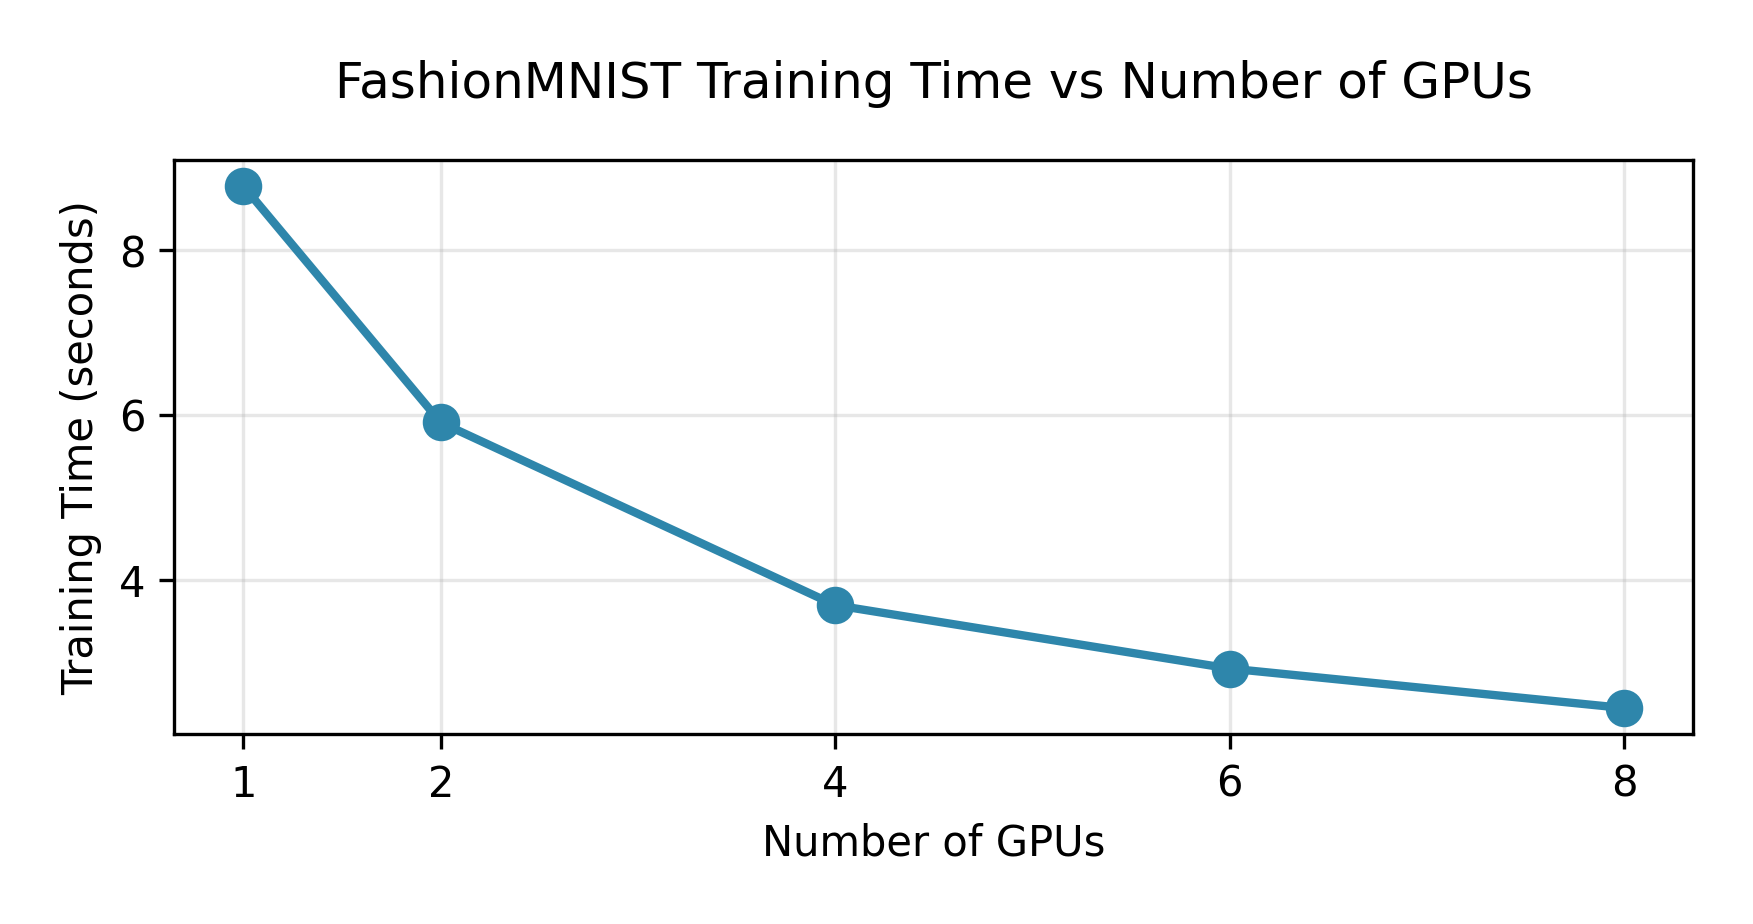
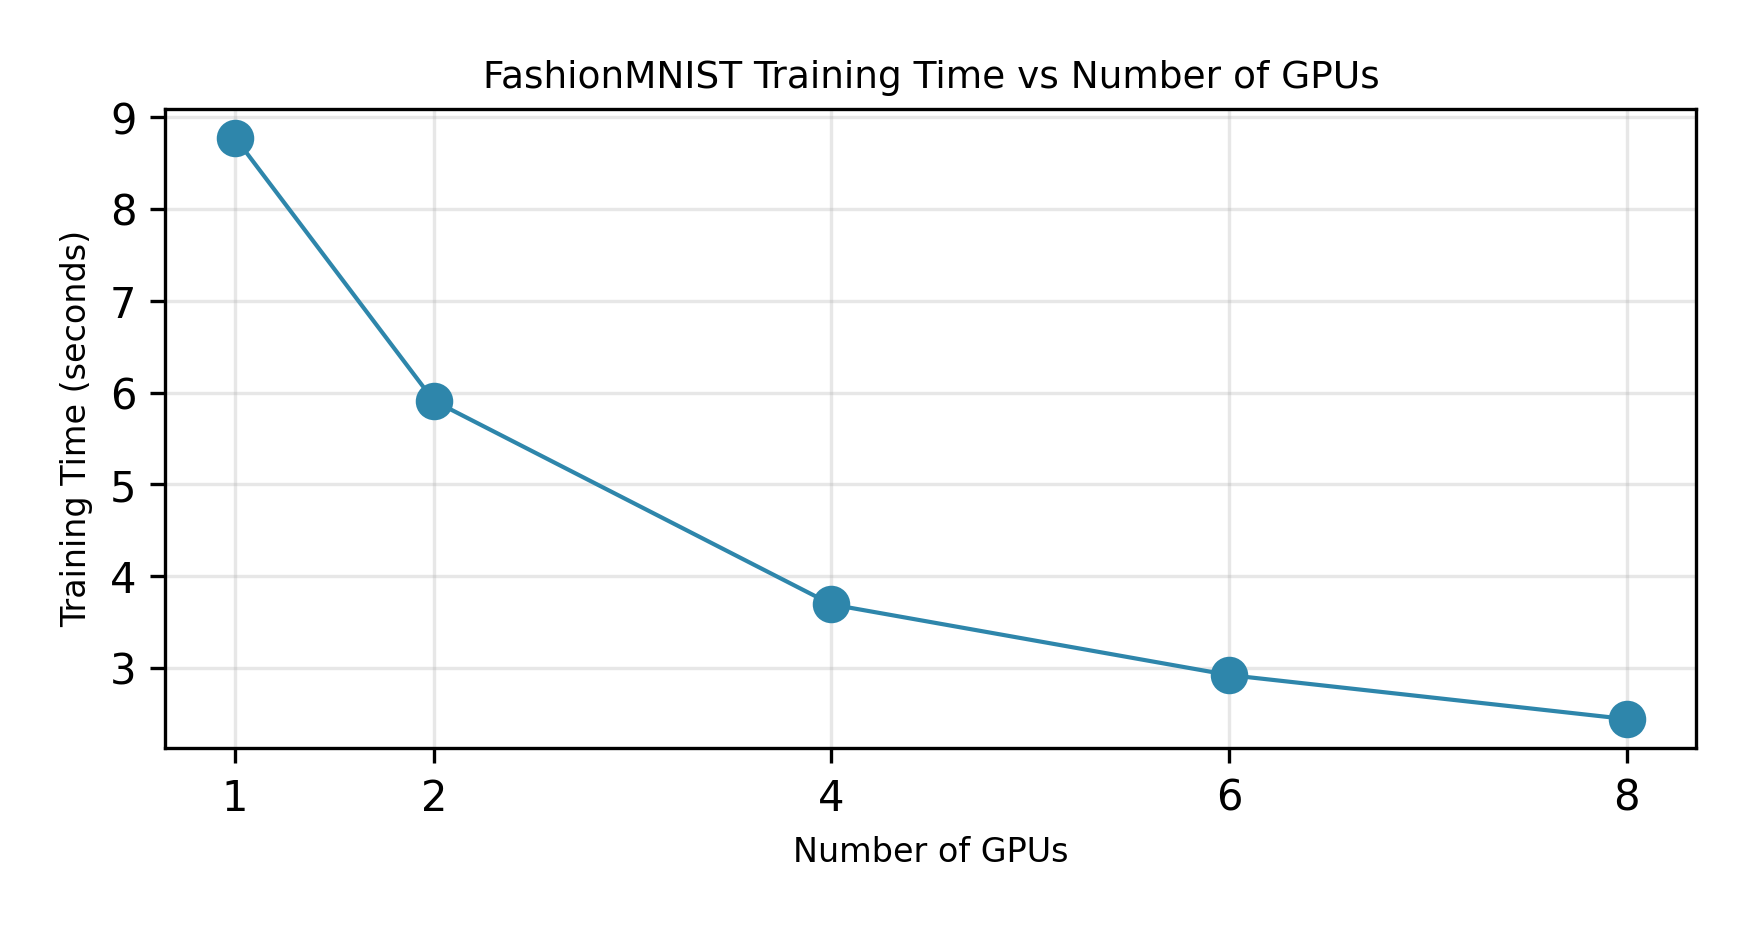
single gpu baseline

diff --git a/shared/mdaisy/utils.py b/shared/mdaisy/utils.py
@@ -248,3 +248,29 @@ def get_resnet18_fashionmnist(num_classes=10):
     model.fc = nn.Linear(model.fc.in_features, num_classes)
     return model
 
+
+def get_resnet18_cifar10(num_classes=10):
+    """
+    Get ResNet18 model adapted for 3-channel CIFAR-10 input.
+    
+    This function creates a ResNet18 model from torchvision and modifies it
+    to work with CIFAR-10's 32×32 RGB images. Unlike FashionMNIST, CIFAR-10
+    already has 3 channels, but the images are smaller (32×32 vs 224×224),
+    so we adjust the first convolutional layer and remove the maxpool layer.
+    
+    Args:
+        num_classes: Number of output classes (default: 10 for CIFAR-10)
+    
+    Returns:
+        torch.nn.Module: ResNet18 model adapted for CIFAR-10
+    """
+    model = models.resnet18(weights=None)  # Use pretrained=False for random init
+    # CIFAR-10 has 3 channels, but images are 32×32, so we adjust the first conv layer
+    # Use smaller kernel and stride to preserve spatial dimensions
+    model.conv1 = nn.Conv2d(3, 64, kernel_size=3, stride=1, padding=1, bias=False)
+    # Remove the first maxpool since CIFAR-10 images are already small (32×32)
+    model.maxpool = nn.Identity()
+    # Modify last fully connected layer for specified number of classes
+    model.fc = nn.Linear(model.fc.in_features, num_classes)
+    return model
+

diff --git a/01/code/multi_gpu_ddp_extended.py b/01/code/multi_gpu_ddp_extended.py
@@ -17,21 +17,9 @@ import torch.optim as optim
 from torch.nn.parallel import DistributedDataParallel as DDP
 from torch.utils.data import DataLoader, DistributedSampler
 from torchvision import datasets, transforms
+from mdaisy import get_resnet18_cifar10
 import os
 import time
-
-def get_resnet18_cifar10(num_classes=10):
-    """Get ResNet18 model adapted for 3-channel CIFAR-10 input"""
-    from torchvision import models
-    model = models.resnet18(weights=None)
-    # CIFAR-10 has 3 channels, so we don't need to modify conv1
-    # But CIFAR-10 images are 32x32, so we adjust the first conv layer
-    model.conv1 = nn.Conv2d(3, 64, kernel_size=3, stride=1, padding=1, bias=False)
-    # Remove the first maxpool since CIFAR-10 images are already small
-    model.maxpool = nn.Identity()
-    # Modify last fully connected layer for 10 classes
-    model.fc = nn.Linear(model.fc.in_features, num_classes)
-    return model
 
 def setup():
     """Initialize the process group using torchrun environment variables"""

diff --git a/01/code/single_gpu_extended.py b/01/code/single_gpu_extended.py
@@ -10,20 +10,7 @@ import torch.optim as optim
 import time
 from torch.utils.data import DataLoader
 from torchvision import datasets, transforms
-from mdaisy import get_resnet18_fashionmnist
-
-def get_resnet18_cifar10(num_classes=10):
-    """Get ResNet18 model adapted for 3-channel CIFAR-10 input"""
-    from torchvision import models
-    model = models.resnet18(weights=None)
-    # CIFAR-10 has 3 channels, so we don't need to modify conv1
-    # But CIFAR-10 images are 32x32, so we adjust the first conv layer
-    model.conv1 = nn.Conv2d(3, 64, kernel_size=3, stride=1, padding=1, bias=False)
-    # Remove the first maxpool since CIFAR-10 images are already small
-    model.maxpool = nn.Identity()
-    # Modify last fully connected layer for 10 classes
-    model.fc = nn.Linear(model.fc.in_features, num_classes)
-    return model
+from mdaisy import get_resnet18_cifar10
 
 def train_single_gpu(num_epochs=20):
     device = torch.device("cuda:0" if torch.cuda.is_available() else "cpu")

diff --git a/01/code/plot_scaling.py b/01/code/plot_scaling.py
@@ -15,10 +15,10 @@ speedup = times[0] / times
 fig, ax1 = plt.subplots(1, 1, figsize=(6, 3.25))
 
 # Plot: Training time vs number of GPUs
-ax1.plot(gpus, times, 'o-', linewidth=2, markersize=8, color='#2E86AB')
-ax1.set_xlabel('Number of GPUs', fontsize=10)
-ax1.set_ylabel('Training Time (seconds)', fontsize=10)
-ax1.set_title('FashionMNIST Training Time vs Number of GPUs', fontsize=12, pad=15)
+ax1.plot(gpus, times, 'o-', linewidth=1, markersize=8, color='#2E86AB')
+ax1.set_xlabel('Number of GPUs', fontsize=8)
+ax1.set_ylabel('Training Time (seconds)', fontsize=8)
+ax1.set_title('FashionMNIST Training Time vs Number of GPUs', fontsize=9, pad=5)
 ax1.grid(True, alpha=0.3)
 ax1.set_xticks(gpus)
 

diff --git a/01/code/growth_mismatch.py b/01/code/growth_mismatch.py
@@ -34,7 +34,7 @@ gpu_data = [
 
 def create_growth_mismatch_plot():
     """Create a two-subplot figure showing exponential vs linear growth."""
-    fig, (ax1, ax2) = plt.subplots(1, 2, figsize=(14, 6))
+    fig, (ax1, ax2) = plt.subplots(1, 2, figsize=(10, 6))
     
     # Subplot 1: Model Parameters (Exponential Growth)
     years_models = [row[0] for row in model_data]

diff --git a/01/code/single_gpu_baseline.py b/01/code/single_gpu_baseline.py
@@ -40,7 +40,7 @@ def train_single_gpu():
         correct = 0
         total = 0
         
-        for batch_idx, (data, target) in enumerate(train_loader):
+        for _, (data, target) in enumerate(train_loader):
             data, target = data.to(device), target.to(device)
             
             optimizer.zero_grad()

diff --git a/01/code/model_comparison_table.py b/01/code/model_comparison_table.py
@@ -83,7 +83,7 @@ def format_parameter_label(param_value):
 
 def create_model_comparison_plot():
     """Create a scatter plot with Year on X-axis and Parameters on Y-axis."""
-    fig, ax = plt.subplots(figsize=(10, 6))
+    fig, ax = plt.subplots(figsize=(10, 9))
     
     years = []
     parameters = []
